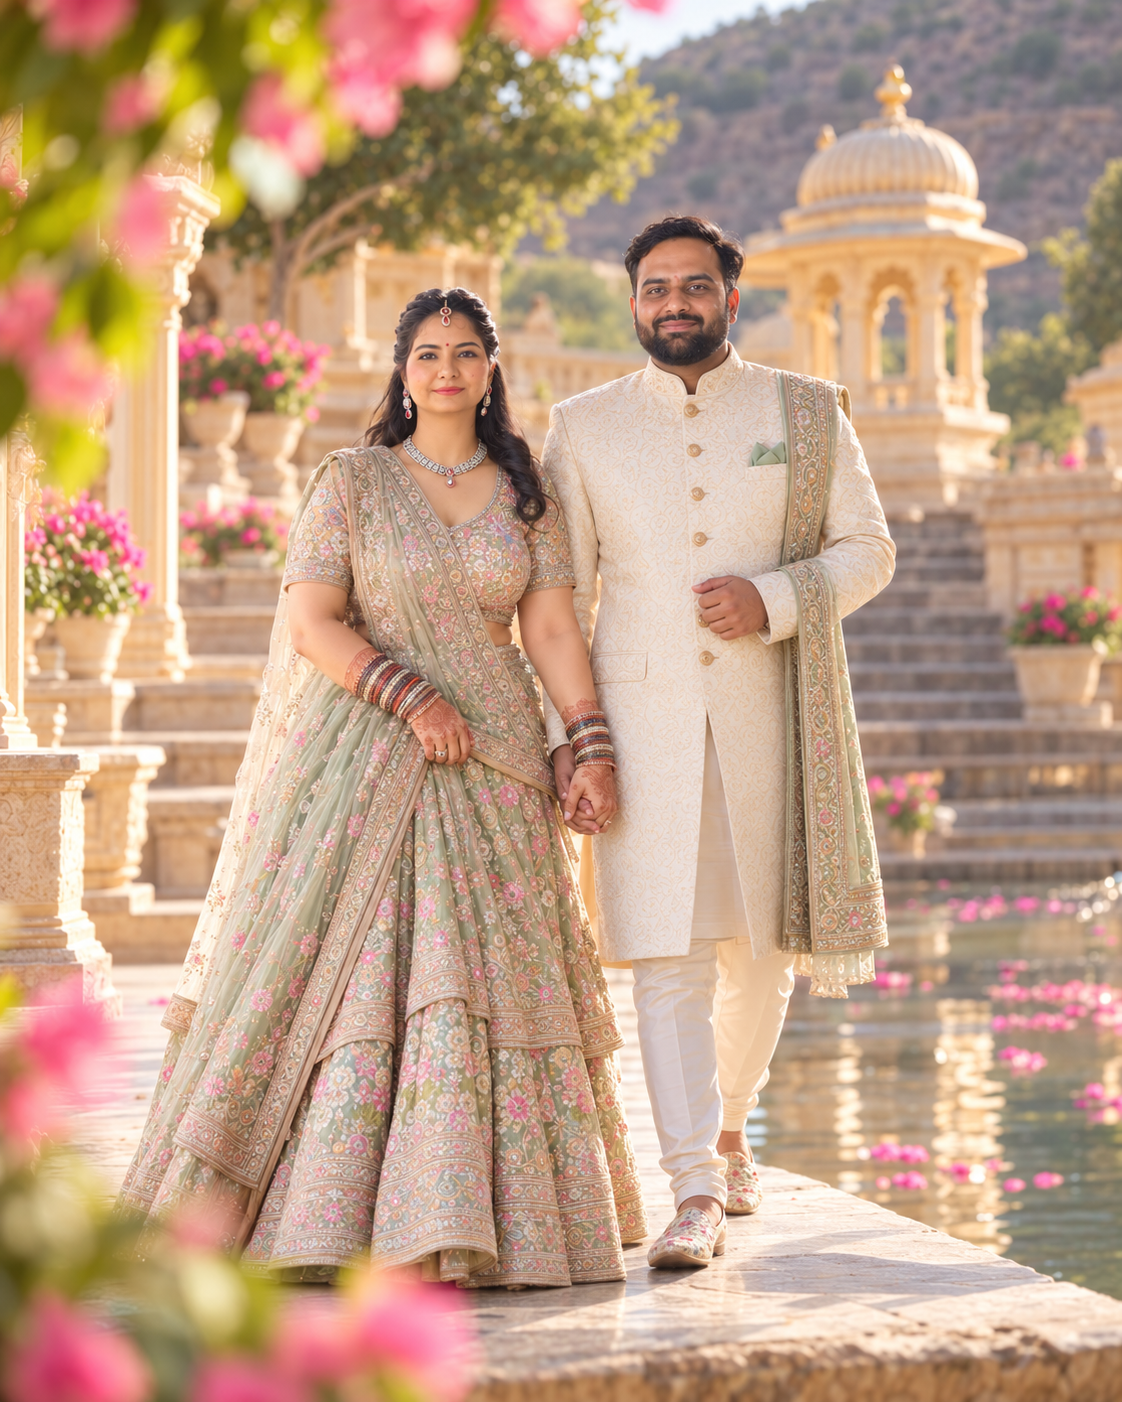
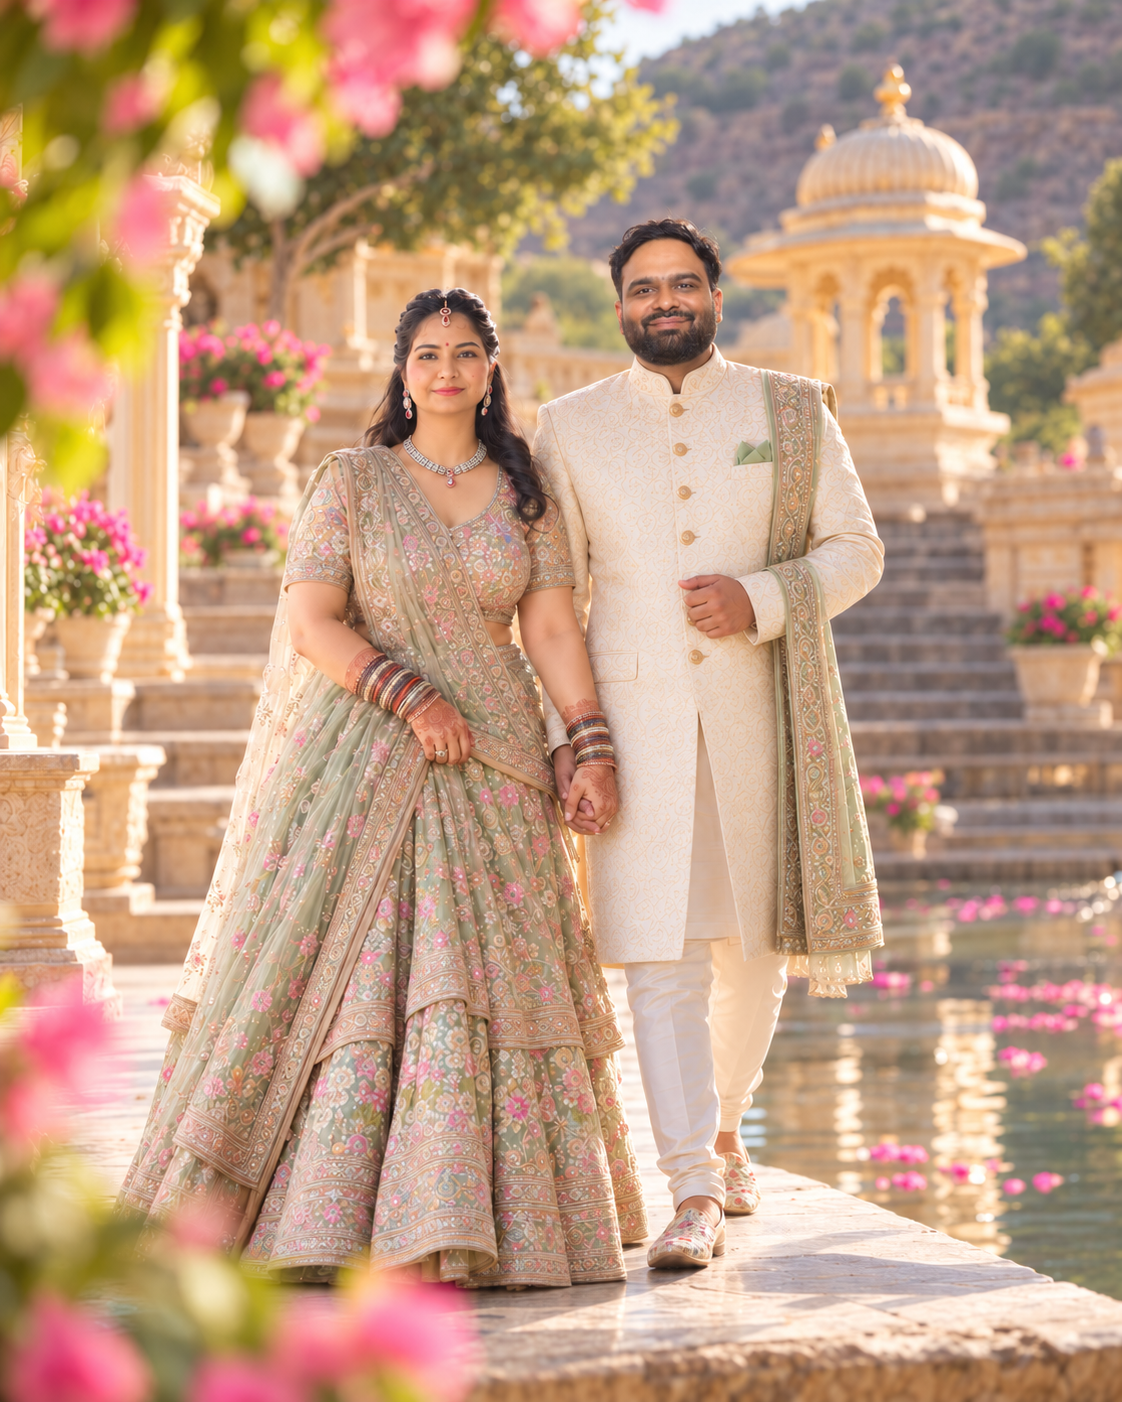
updated family names and image

Changed region(s): [[0.1248, 0.1534, 0.8111, 0.9201], [0.6239, 0.6748, 0.6551, 0.7361], [0.2496, 0.4907, 0.2807, 0.5214]]

diff --git a/index.html b/index.html
@@ -2706,11 +2706,11 @@
               <div class="family-group-names">
                 <div class="family-name">
                   <span class="family-flourish">✦</span>
-                  <strong>Late Amar Singh</strong>
+                  <strong>Late Amar Singh Soni</strong>
                 </div>
                 <div class="family-name">
                   <span class="family-flourish">✦</span>
-                  <strong>Late Rukmini</strong>
+                  <strong>Late Rukmini Devi</strong>
                 </div>
               </div>
             </div>
